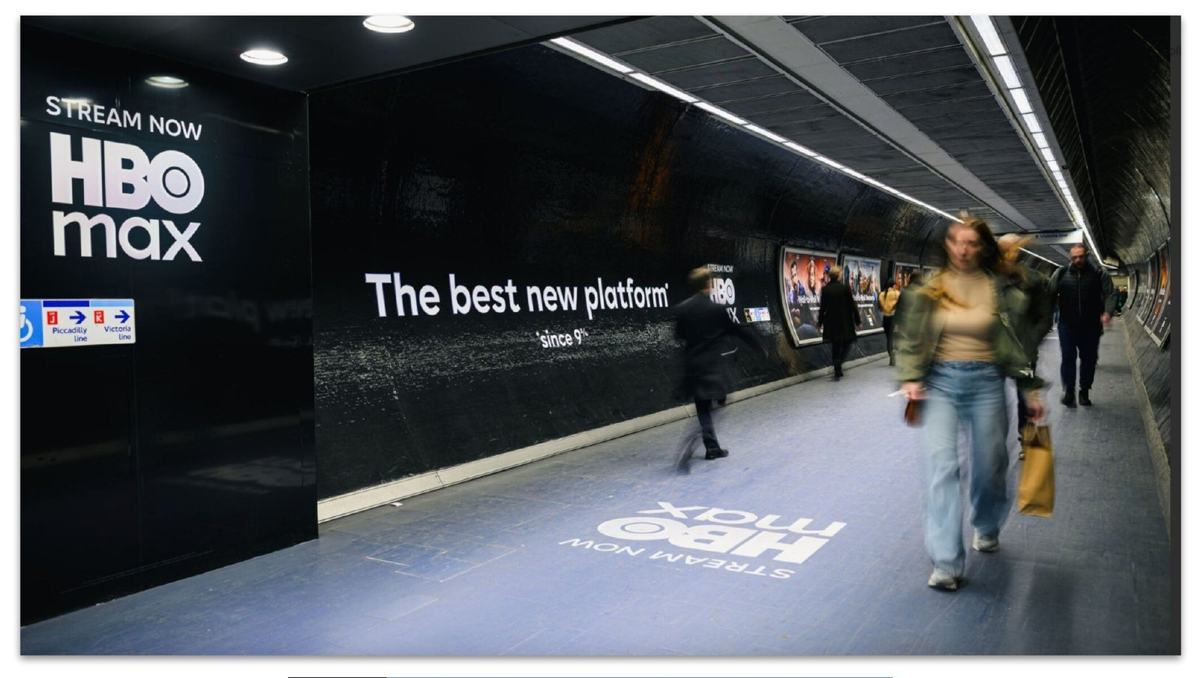
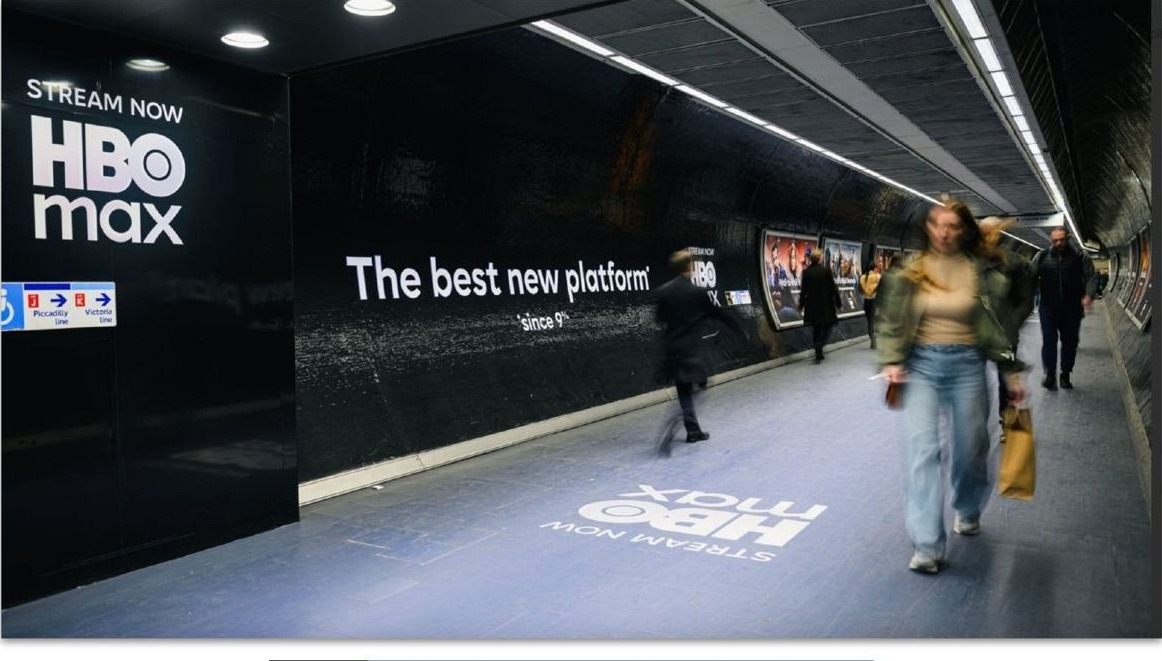
Remove white frames, shadows and letterbox bars from images; auto-trim uploads
Claude-Session: https://claude.ai/code/session_01BFvUVSesBA9Gfw81sbKmye

diff --git a/admin/admin.js b/admin/admin.js
@@ -622,6 +622,25 @@ function openAddSection(at) {
 
 /* ---------- images + video ---------- */
 function pickFile(input) { return new Promise(res => { input.value = ""; input.onchange = () => res(input.files[0] || null); input.click(); }); }
+/* cut away plain white, grey or black borders (frames, shadows, letterbox bars) */
+function trimBorders(cv) {
+  const ctx = cv.getContext("2d"), w = cv.width, h = cv.height;
+  if (w < 40 || h < 40) return;
+  const d = ctx.getImageData(0, 0, w, h).data;
+  const lum = (x, y) => { const i = (y * w + x) * 4; return d[i] * .299 + d[i + 1] * .587 + d[i + 2] * .114; };
+  const plain = vals => { let m = 0; for (const v of vals) m += v; m /= vals.length; let sd = 0; for (const v of vals) sd += (v - m) ** 2; sd = Math.sqrt(sd / vals.length); return (sd < 14 && (m > 225 || m < 28)) || (sd < 8 && m > 140); };
+  const row = (y, x0, x1) => { const v = []; for (let x = x0; x < x1; x += 2) v.push(lum(x, y)); return v; };
+  const col = (x, y0, y1) => { const v = []; for (let y = y0; y < y1; y += 2) v.push(lum(x, y)); return v; };
+  let t = 0, b = h, l = 0, r = w;
+  while (t < h * .25 && plain(row(t, 0, w))) t++;
+  while (h - b < h * .25 && plain(row(b - 1, 0, w))) b--;
+  while (l < w * .25 && plain(col(l, t, b))) l++;
+  while (w - r < w * .25 && plain(col(r - 1, t, b))) r--;
+  if (!t && b === h && !l && r === w) return;
+  if (t) t += 2; if (b < h) b -= 2; if (l) l += 2; if (r < w) r -= 2;
+  const img = ctx.getImageData(l, t, r - l, b - t);
+  cv.width = r - l; cv.height = b - t; ctx.putImageData(img, 0, 0);
+}
 async function processImage(file) {
   const name = slugify(file.name.replace(/\.[a-z0-9]+$/i, "")).slice(0, 40) + "-" + Math.random().toString(36).slice(2, 6);
   if (/gif|svg/.test(file.type)) {
@@ -634,11 +653,12 @@ async function processImage(file) {
   const w = Math.round(bmp.width * k), h = Math.round(bmp.height * k);
   const cv = document.createElement("canvas"); cv.width = w; cv.height = h;
   cv.getContext("2d").drawImage(bmp, 0, 0, w, h);
+  trimBorders(cv);
   let blob = await new Promise(r => cv.toBlob(r, "image/webp", 0.86)), ext = "webp";
   if (!blob || blob.type !== "image/webp") { blob = await new Promise(r => cv.toBlob(r, "image/jpeg", 0.88)); ext = "jpg"; }
   const path = `img/uploads/${name}.${ext}`;
   pending.set(path, { blob, url: URL.createObjectURL(blob) }); idb.put(path, blob);
-  return { src: path, w, h };
+  return { src: path, w: cv.width, h: cv.height };
 }
 async function pickImage(path, { add = false } = {}) {
   const f = await pickFile($("#filePick")); if (!f) return;
